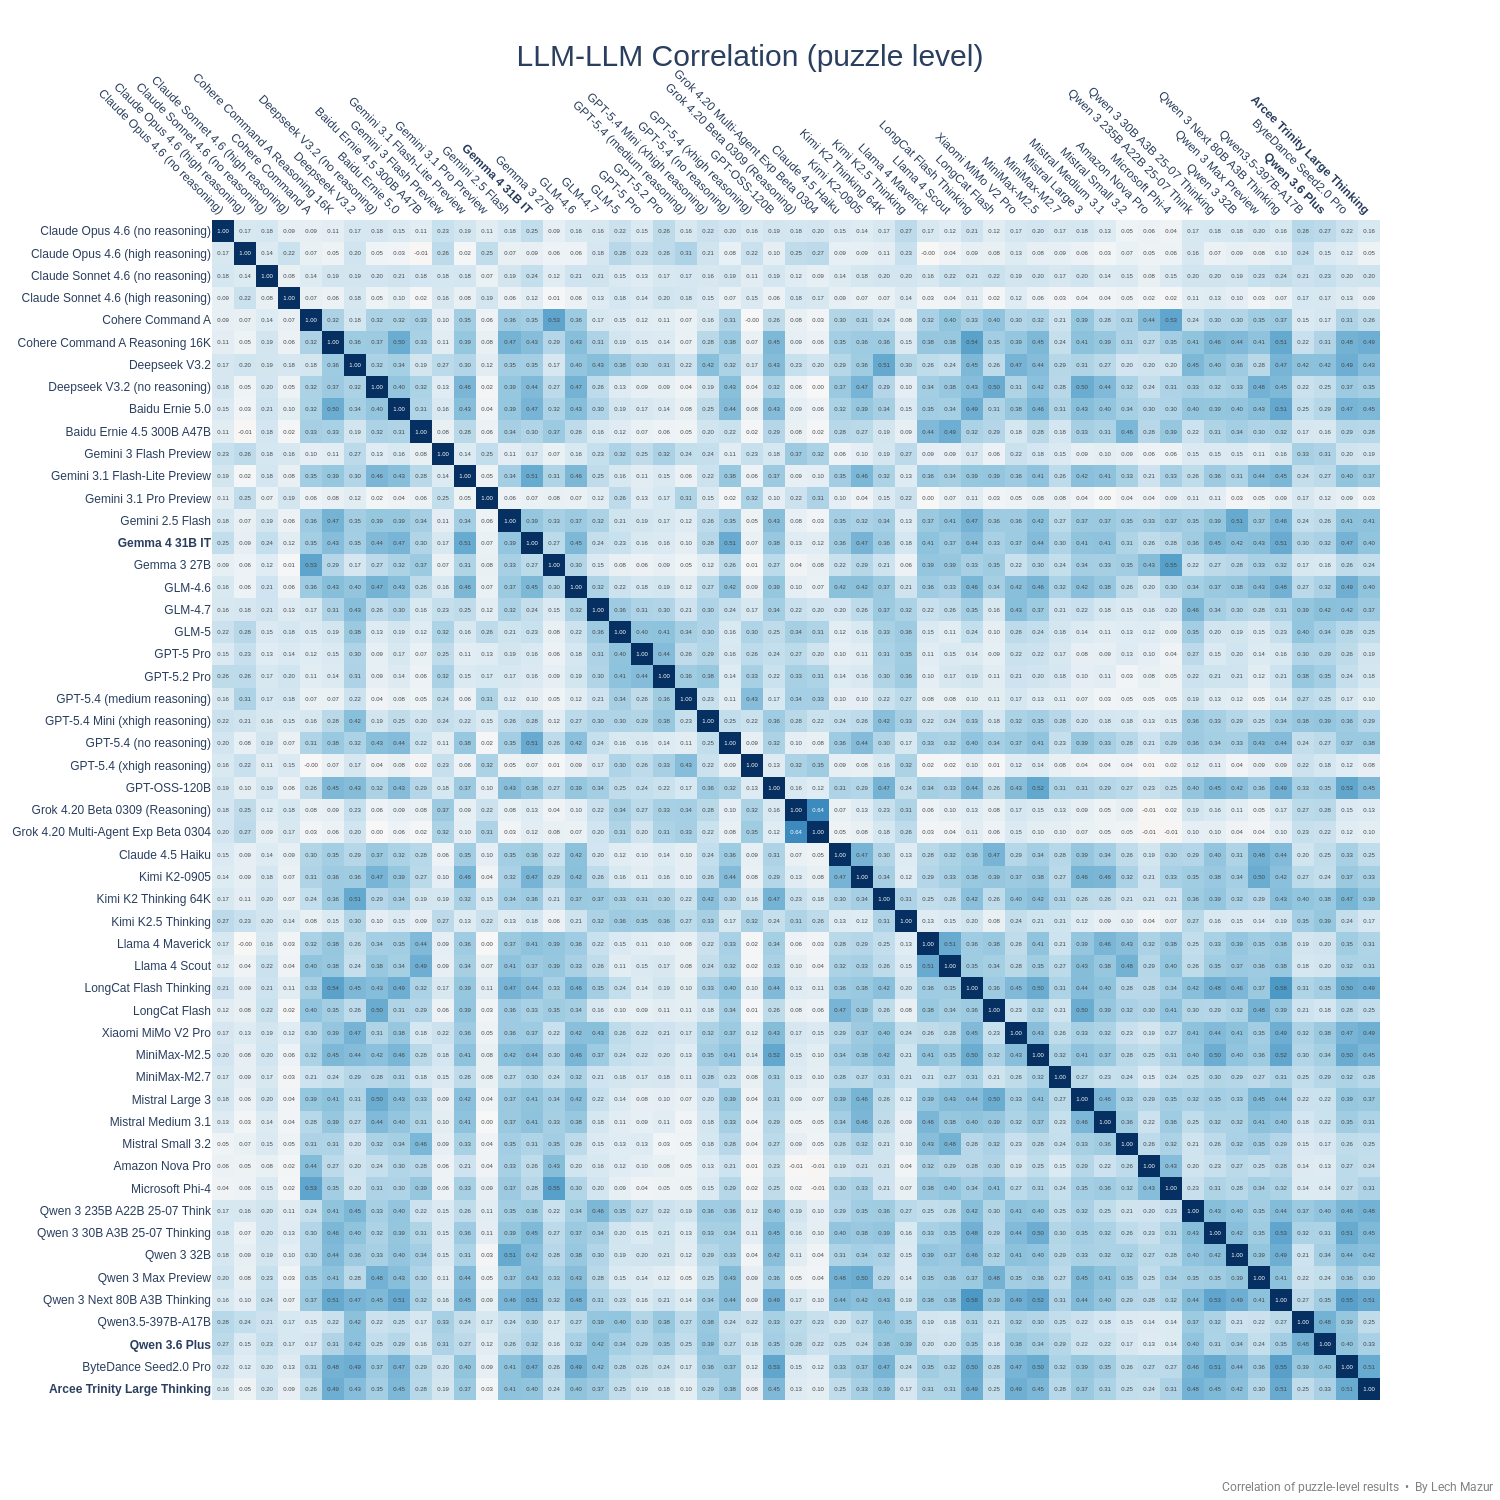
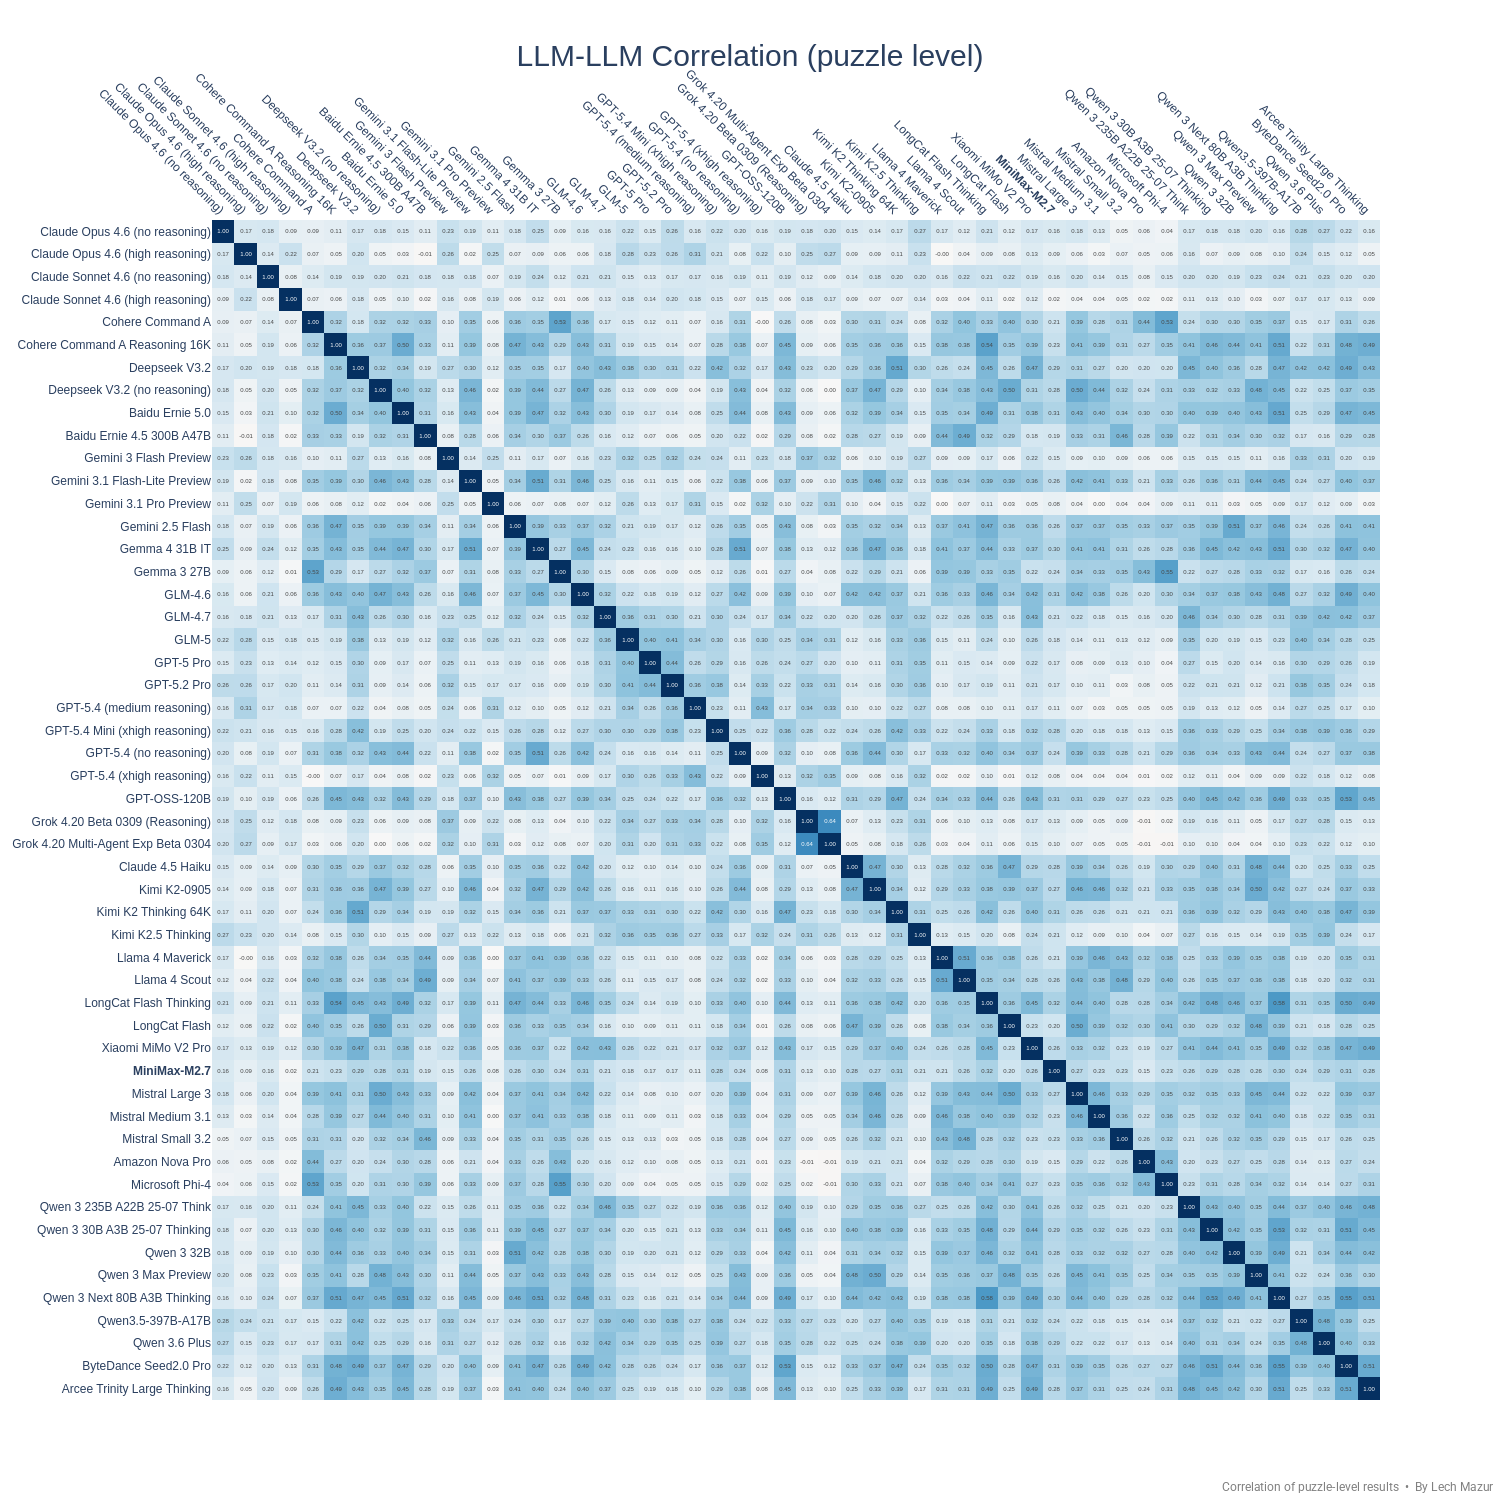
MiniMax-M2.7

Changed region(s): [[0.0, 0.0613, 0.92, 0.9507]]

diff --git a/README.md b/README.md
@@ -46,24 +46,25 @@ As of Feb 4, 2025, there is a new version of the benchmark. The standard NYT Con
 |32|ByteDance Seed2.0 Pro|42.1|940|
 |33|Qwen3 Max (2026-01-23)|41.8|940|
 |34|Xiaomi MiMo V2 Pro|40.9|940|
-|35|GPT-5.4 (no reasoning)|32.8|940|
-|36|LongCat Flash Thinking|31.0|940|
-|37|Gemma 4 31B IT|30.1|940|
-|38|MiniMax-M2.5|29.6|940|
-|39|Arcee Trinity Large Thinking|29.5|940|
-|40|GPT-5.2 (no reasoning)|28.1|940|
-|41|MiniMax-M2|27.0|940|
-|42|Claude 4.5 Haiku|25.9|940|
-|43|Grok 4.1 Fast Non-Reasoning|25.0|940|
-|44|Qwen 3 Max Thinking|24.1|940|
-|45|MiniMax-M2.1|22.7|940|
-|46|Baidu Ernie 5.0|21.2|940|
-|47|Gemini 3.1 Flash-Lite Preview|19.7|940|
-|48|Llama 4 Maverick|18.4|940|
-|49|Deepseek V3.2 (no reasoning)|17.8|940|
-|50|Grok 4.20 Non-Reasoning Exp Beta 0304|17.6|940|
-|51|Mistral Large 3|17.2|940|
-|52|Mistral Medium 3.1|15.5|940|
+|35|MiniMax-M2.7|34.4|940|
+|36|GPT-5.4 (no reasoning)|32.8|940|
+|37|LongCat Flash Thinking|31.0|940|
+|38|Gemma 4 31B IT|30.1|940|
+|39|MiniMax-M2.5|29.6|940|
+|40|Arcee Trinity Large Thinking|29.5|940|
+|41|GPT-5.2 (no reasoning)|28.1|940|
+|42|MiniMax-M2|27.0|940|
+|43|Claude 4.5 Haiku|25.9|940|
+|44|Grok 4.1 Fast Non-Reasoning|25.0|940|
+|45|Qwen 3 Max Thinking|24.1|940|
+|46|MiniMax-M2.1|22.7|940|
+|47|Baidu Ernie 5.0|21.2|940|
+|48|Gemini 3.1 Flash-Lite Preview|19.7|940|
+|49|Llama 4 Maverick|18.4|940|
+|50|Deepseek V3.2 (no reasoning)|17.8|940|
+|51|Grok 4.20 Non-Reasoning Exp Beta 0304|17.6|940|
+|52|Mistral Large 3|17.2|940|
+|53|Mistral Medium 3.1|15.5|940|
 
 
 
@@ -287,6 +288,7 @@ These models are excluded from the main board because they ran fewer than 940 to
 ---
 
 ## Updates
+- April 4, 2026: MiniMax-M2.7 added.
 - April 3, 2026: Arcee Trinity Large Thinking, Qwen 3.6 Plus, Gemma 4 31B added.
 - Mar 6, 2026: Grok 4.20 Beta Experminatal, Gemini 3.1 Flash-Lite Preview added.
 - Mar 5, 2026: GPT-5.4 added.
